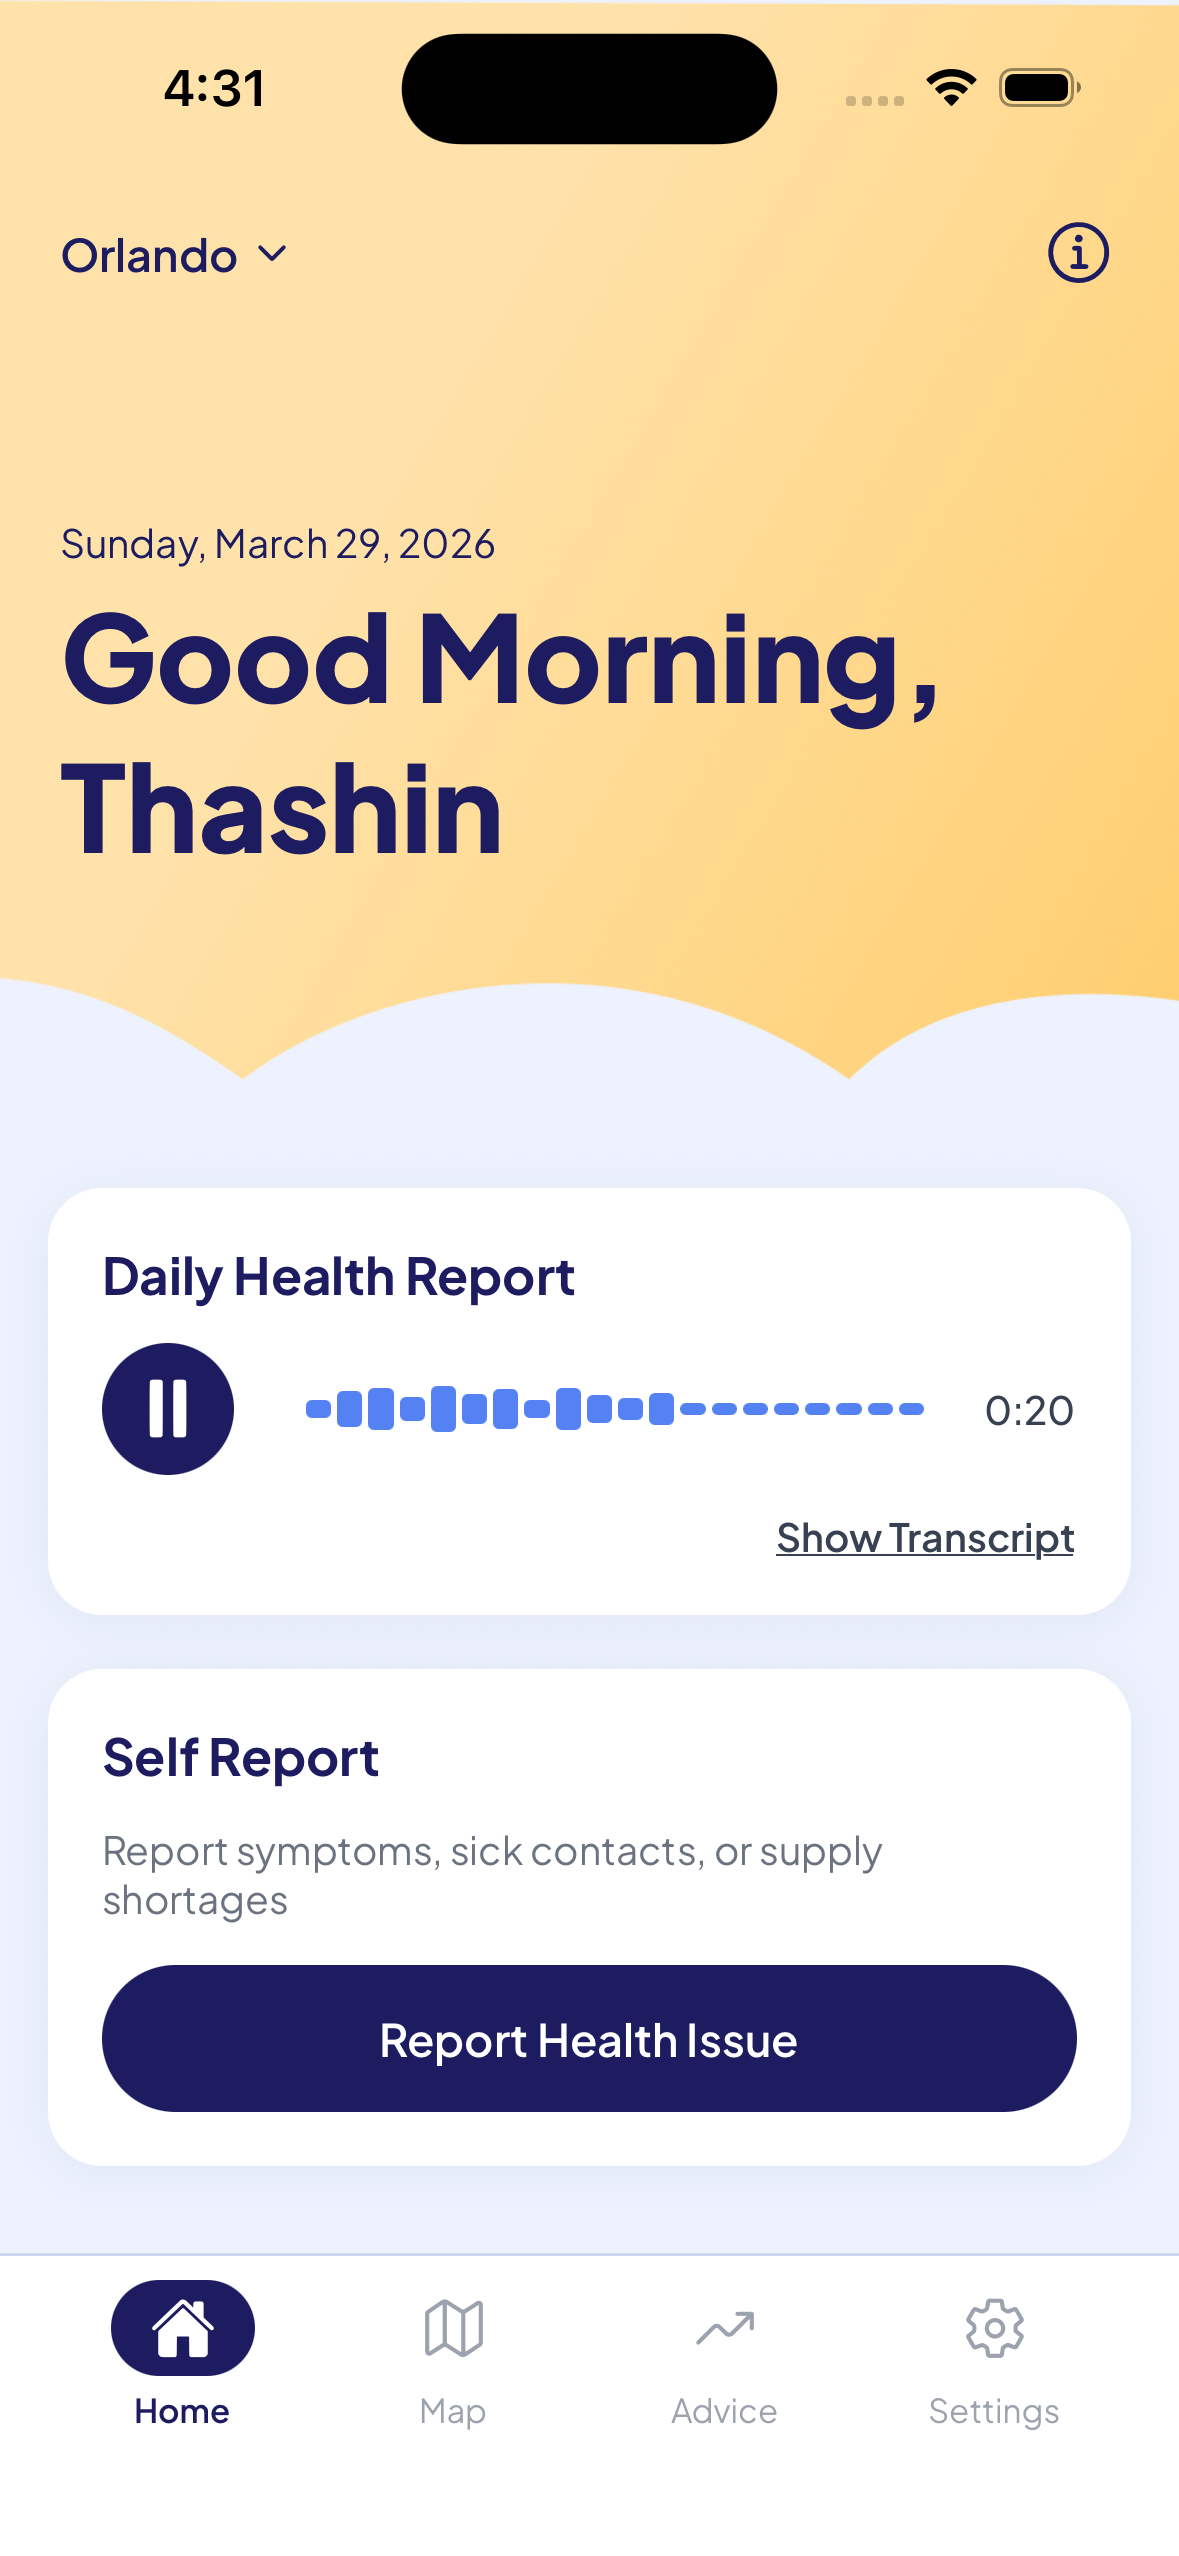
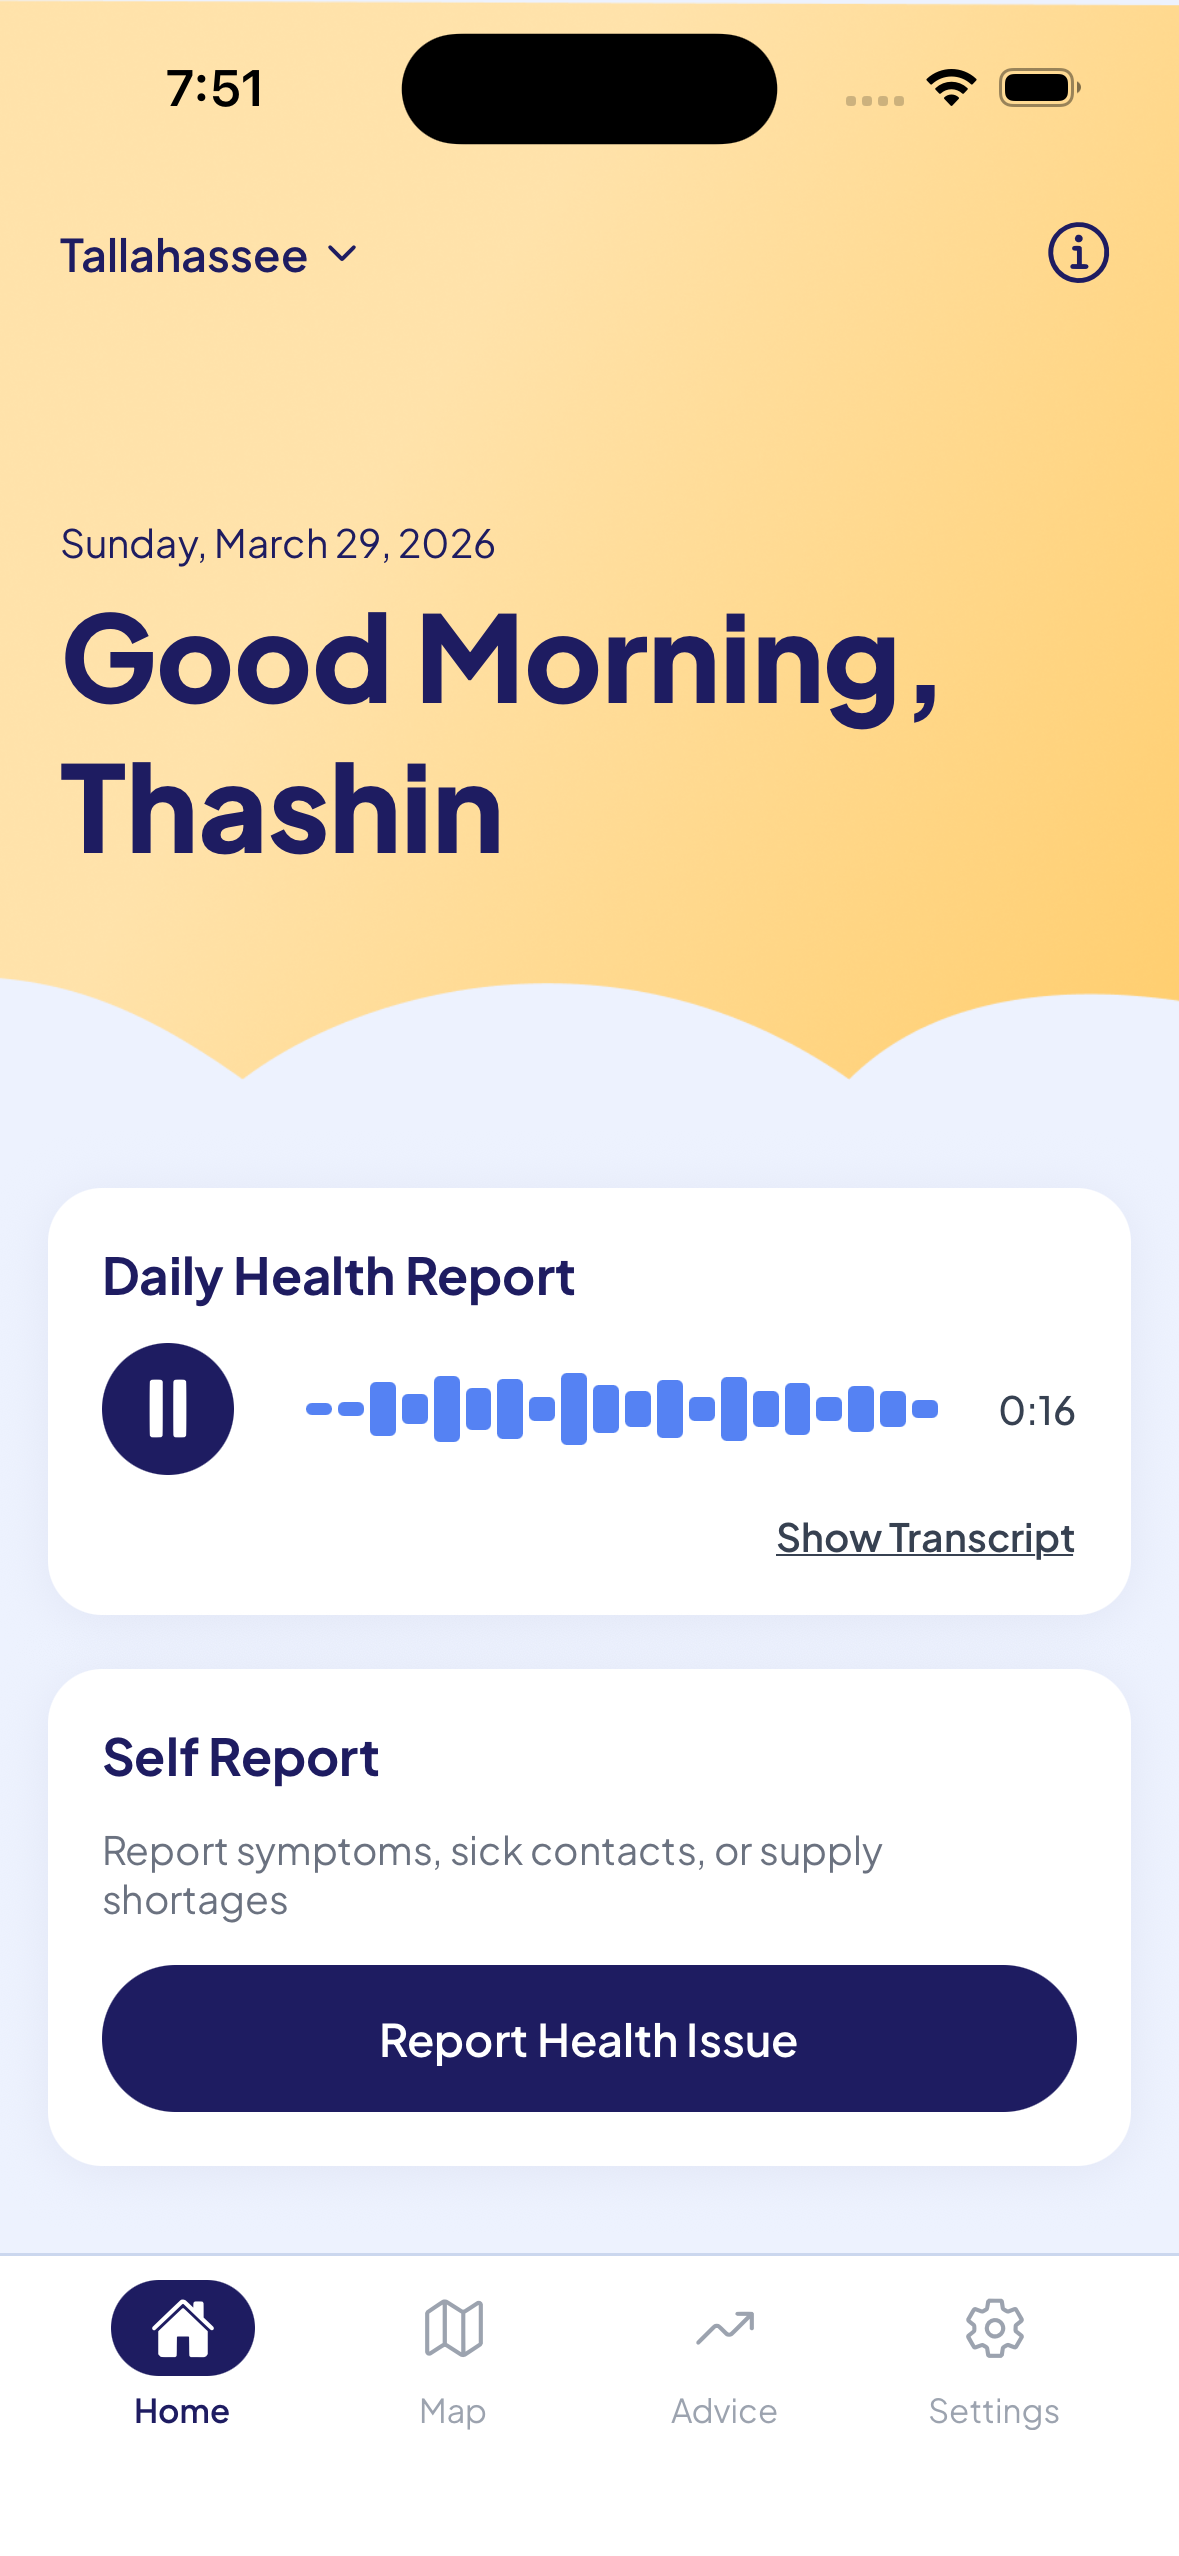
map fix and images

diff --git a/src/screens/MapScreen.tsx b/src/screens/MapScreen.tsx
@@ -121,24 +121,56 @@ export default function MapScreen({ navigation }: Props) {
           const heatData = await heatRes.json();
           setHeatmapData(heatData);
           
-          // Set initial detailed area from the first city found (usually Tampa)
           if (heatData.features && heatData.features.length > 0) {
-            const firstFeature = heatData.features[0].properties;
-            setSelectedArea({
-              name: firstFeature.display_name || firstFeature.city,
-              city: firstFeature.city,
-              state: firstFeature.state || 'FL',
-              riskScore: firstFeature.risk_score || 0,
-              riskLevel: firstFeature.risk_level || 'Low',
-              transmissionRate: 1.0 + (firstFeature.weight * 0.5),
-              alerts: firstFeature.alerts || [],
-            });
+            const feature = heatData.features.find((f: any) => f.properties.city?.toLowerCase() === selectedCity.toLowerCase()) || heatData.features[0];
+            const weight = feature.properties.weight || 0.5;
+            fetchCityDetails(selectedCity, weight);
           }
         }
       } catch (err) {
         console.error('[Map] Failed to fetch data:', err);
       }
     }
+
+    async function fetchCityDetails(cityName: string, weight: number) {
+      try {
+        const res = await fetch(`http://localhost:8000/api/city/${encodeURIComponent(cityName)}/summary`);
+        if (res.ok) {
+          const data = await res.json();
+          let riskLvl = 'Low';
+          if (data.forecast) {
+            const match = data.forecast.match(/risk level is (\w+)/i);
+            if (match) riskLvl = match[1].charAt(0).toUpperCase() + match[1].slice(1).toLowerCase();
+          }
+          const alerts: any[] = [];
+          if (data.local_risk_levels) {
+            if (data.local_risk_levels.others) {
+              data.local_risk_levels.others.forEach((o: any) => {
+                alerts.push({ name: o.name || 'Alert', description: o.description, severity: (o.level || 'medium').toLowerCase() });
+              });
+            }
+            ['seasonal_flu', 'common_cold'].forEach(k => {
+              const v = data.local_risk_levels[k];
+              if (v && typeof v === 'object' && ['High', 'Severe', 'Moderate'].includes(v.level)) {
+                alerts.push({ name: k === 'seasonal_flu' ? 'Seasonal Flu' : 'Common Cold', description: v.description, severity: v.level.toLowerCase() });
+              }
+            });
+          }
+          setSelectedArea({
+            name: cityName,
+            city: cityName,
+            state: 'FL',
+            riskScore: weight * 10.0,
+            riskLevel: riskLvl as any,
+            transmissionRate: 1.0 + (weight * 0.5),
+            alerts
+          });
+        }
+      } catch (err) {
+        console.error('[Map] Failed to fetch city details:', err);
+      }
+    }
+
     fetchMapData();
   }, [selectedCity]);
 
@@ -159,32 +191,54 @@ export default function MapScreen({ navigation }: Props) {
           animationDuration: 1000,
         });
         
-        // Also update the selected area card
-        setSelectedArea({
-          name: feature.properties?.display_name || feature.properties?.city,
-          city: feature.properties?.city,
-          state: feature.properties?.state || 'FL',
-          riskScore: feature.properties?.risk_score || 0,
-          riskLevel: feature.properties?.risk_level || 'Low',
-          transmissionRate: 1.0 + (feature.properties?.weight * 0.5),
-          alerts: feature.properties?.alerts || [],
-        });
+        // Note: selectedArea update for camera movement removed to preserve detailed city stats
+        // the city stats are now fetched properly from the server.
       }
     }
   }, [selectedCity, heatmapData]);
 
-  const handleHeatmapPress = (event: any) => {
+  const handleHeatmapPress = async (event: any) => {
     if (event.features && event.features.length > 0) {
       const featureData = event.features[0].properties;
-      setSelectedArea({
-        name: featureData.display_name || featureData.city,
-        city: featureData.city,
-        state: featureData.state || 'FL',
-        riskScore: featureData.risk_score || 0,
-        riskLevel: featureData.risk_level || 'Low',
-        transmissionRate: 1.0 + (featureData.weight * 0.5),
-        alerts: featureData.alerts || [],
-      });
+      const weight = featureData.weight || 0.5;
+      const cityName = featureData.city || featureData.display_name;
+      
+      try {
+        const res = await fetch(`http://localhost:8000/api/city/${encodeURIComponent(cityName)}/summary`);
+        if (res.ok) {
+          const data = await res.json();
+          let riskLvl = 'Low';
+          if (data.forecast) {
+            const match = data.forecast.match(/risk level is (\w+)/i);
+            if (match) riskLvl = match[1].charAt(0).toUpperCase() + match[1].slice(1).toLowerCase();
+          }
+          const alerts: any[] = [];
+          if (data.local_risk_levels) {
+            if (data.local_risk_levels.others) {
+              data.local_risk_levels.others.forEach((o: any) => {
+                alerts.push({ name: o.name || 'Alert', description: o.description, severity: (o.level || 'medium').toLowerCase() });
+              });
+            }
+            ['seasonal_flu', 'common_cold'].forEach(k => {
+              const v = data.local_risk_levels[k];
+              if (v && typeof v === 'object' && ['High', 'Severe', 'Moderate'].includes(v.level)) {
+                alerts.push({ name: k === 'seasonal_flu' ? 'Seasonal Flu' : 'Common Cold', description: v.description, severity: v.level.toLowerCase() });
+              }
+            });
+          }
+          setSelectedArea({
+            name: cityName,
+            city: cityName,
+            state: 'FL',
+            riskScore: weight * 10.0,
+            riskLevel: riskLvl as any,
+            transmissionRate: 1.0 + (weight * 0.5),
+            alerts
+          });
+        }
+      } catch (e) {
+        console.error('Failed to fetch mapped city details on press', e);
+      }
     }
   };
 
@@ -350,8 +404,8 @@ export default function MapScreen({ navigation }: Props) {
               {selectedArea.city}, {selectedArea.state}  •  {t('map.tap_for_details')}
             </Text>
             <View style={styles.infoMeta}>
-              <View style={styles.riskDot} />
-              <Text style={styles.infoRiskTxt}>{t('map.high_risk')}</Text>
+              <View style={[styles.riskDot, { backgroundColor: scoreColor(selectedArea.riskScore) }]} />
+              <Text style={[styles.infoRiskTxt, { color: scoreColor(selectedArea.riskScore) }]}>{selectedArea.riskLevel} Risk</Text>
               <Text style={[styles.infoDivider, { color: theme.divider }]}>  |  </Text>
               <Text style={[styles.infoAlertsTxt, { color: theme.body }]}>
                 {t('map.active_alerts', { count: selectedArea.alerts.length })}
@@ -517,13 +571,11 @@ const styles = StyleSheet.create({
     width: 8,
     height: 8,
     borderRadius: 4,
-    backgroundColor: Colors.coral,
     marginRight: 6,
   },
   infoRiskTxt: {
     fontFamily: FontFamily.semiBold,
     fontSize: FontSize.sm,
-    color: Colors.coral,
   },
   infoDivider: {
     fontFamily: FontFamily.regular,
